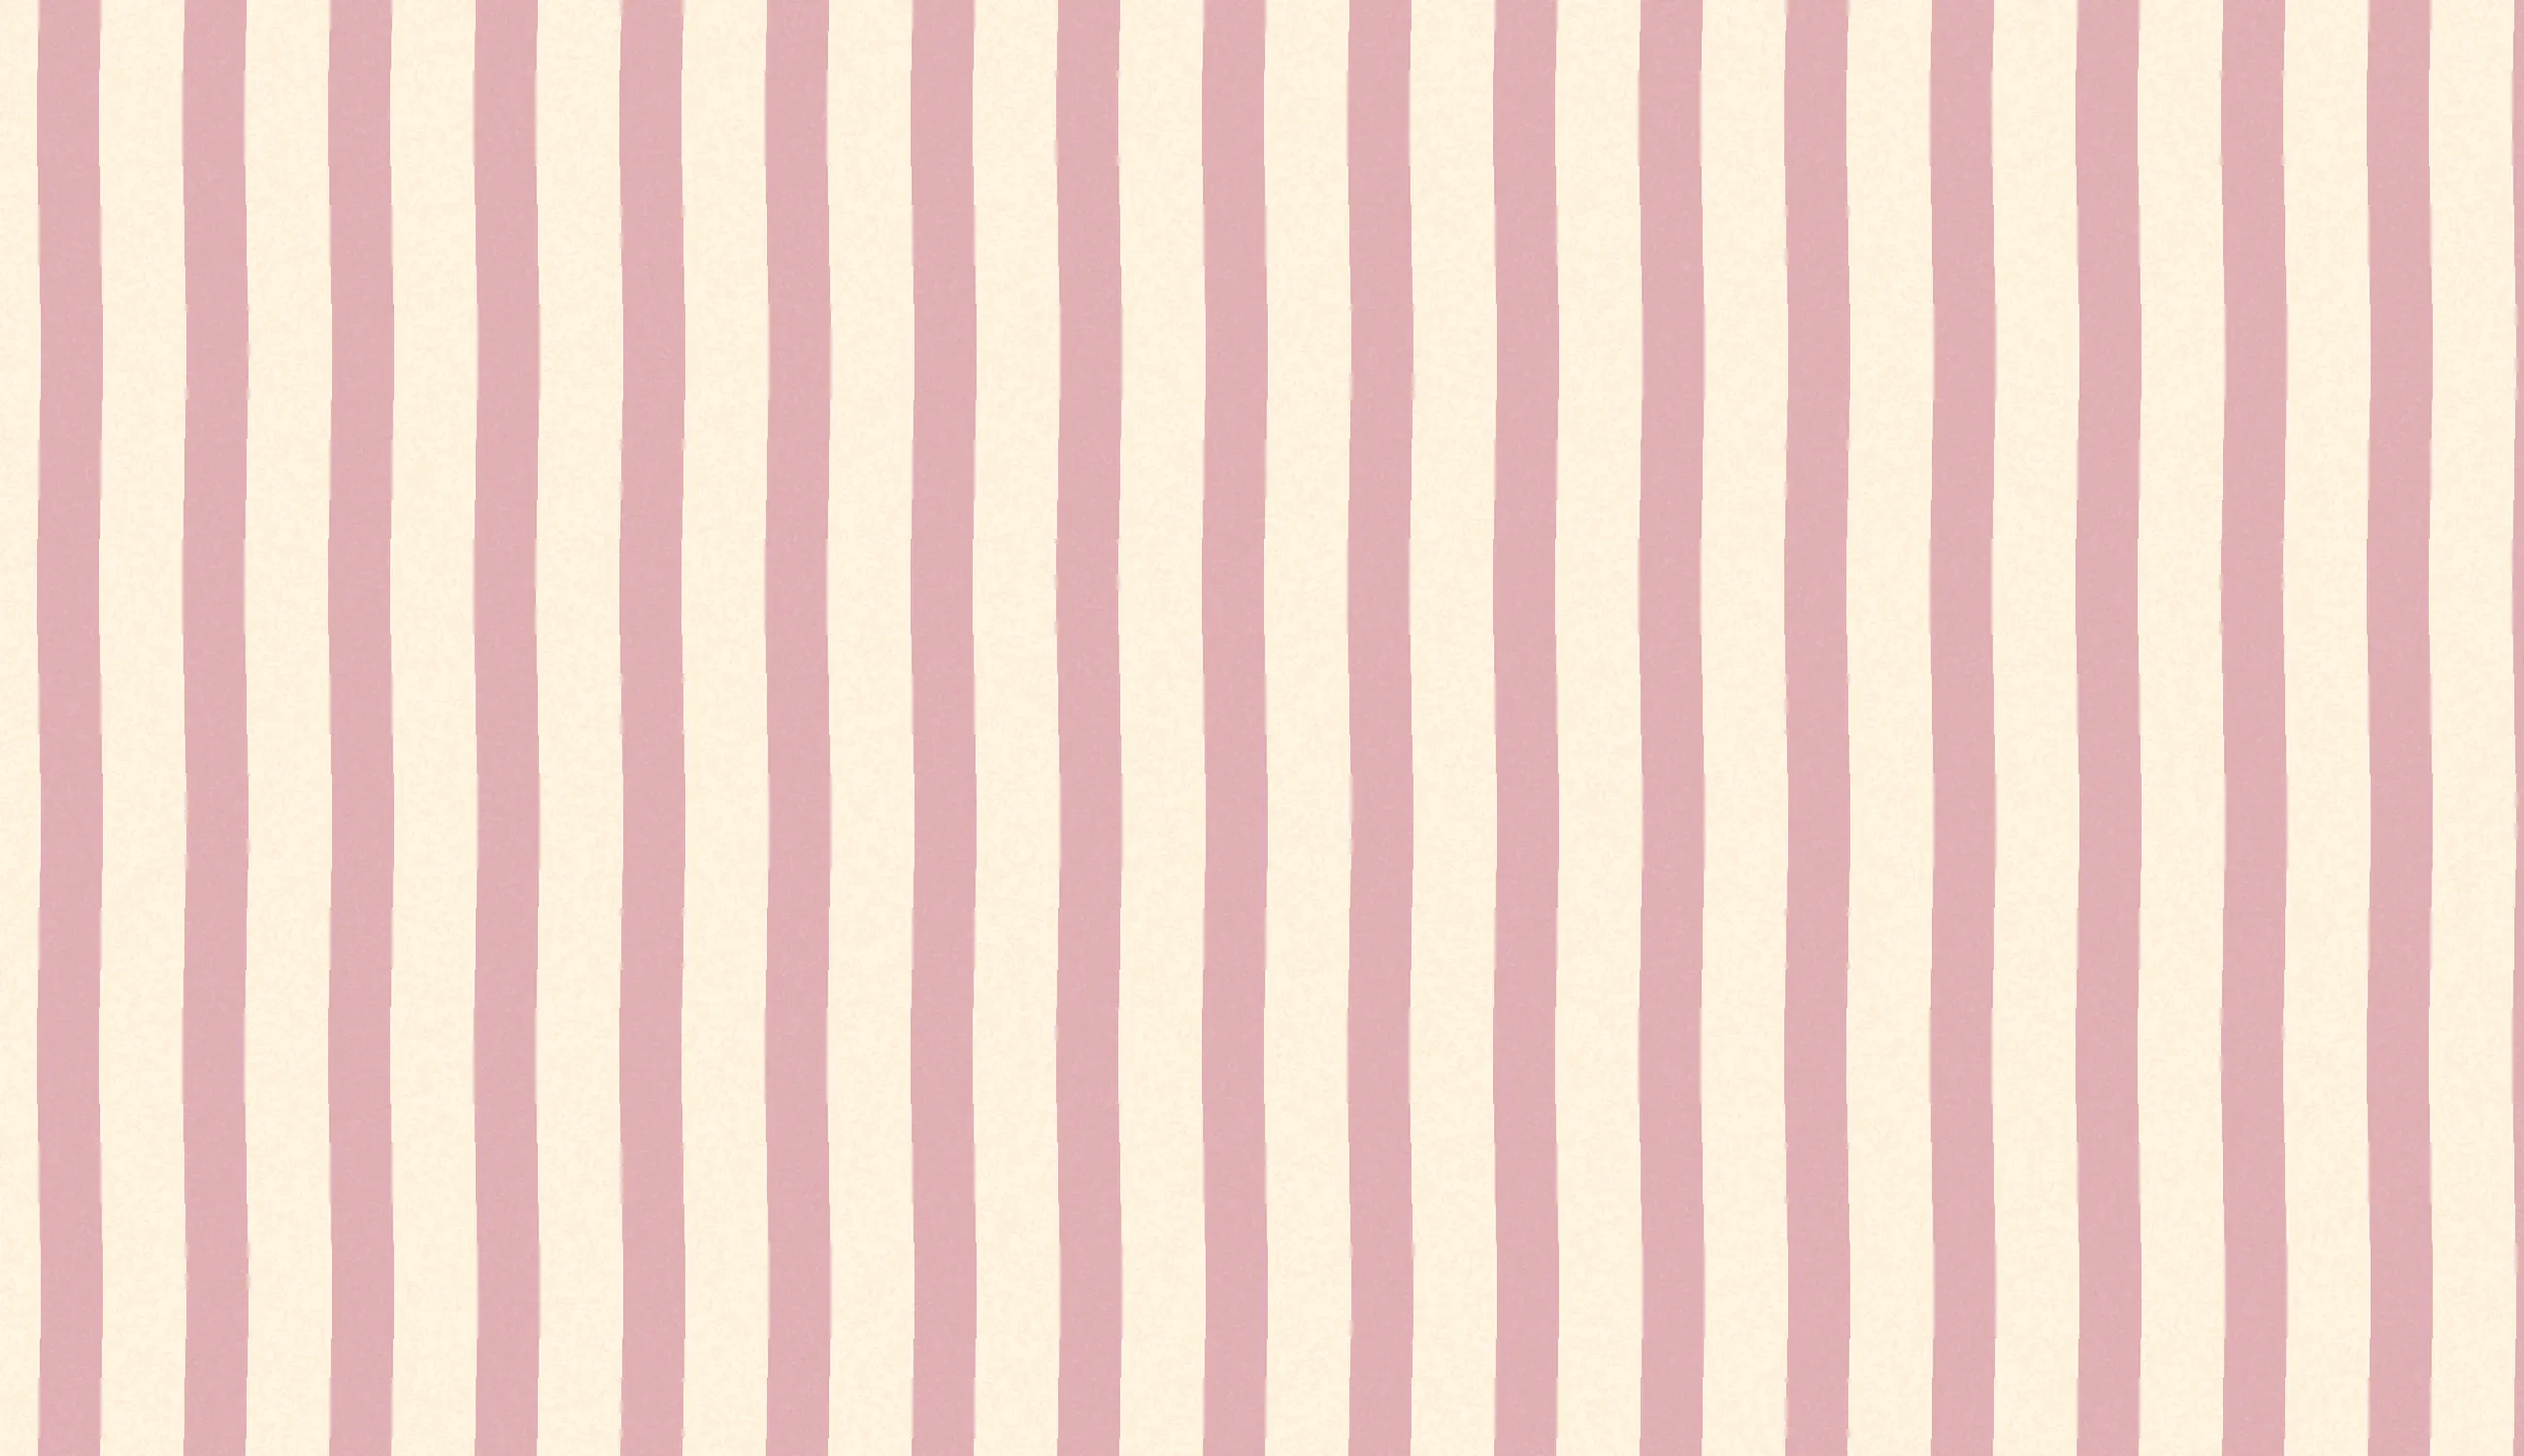
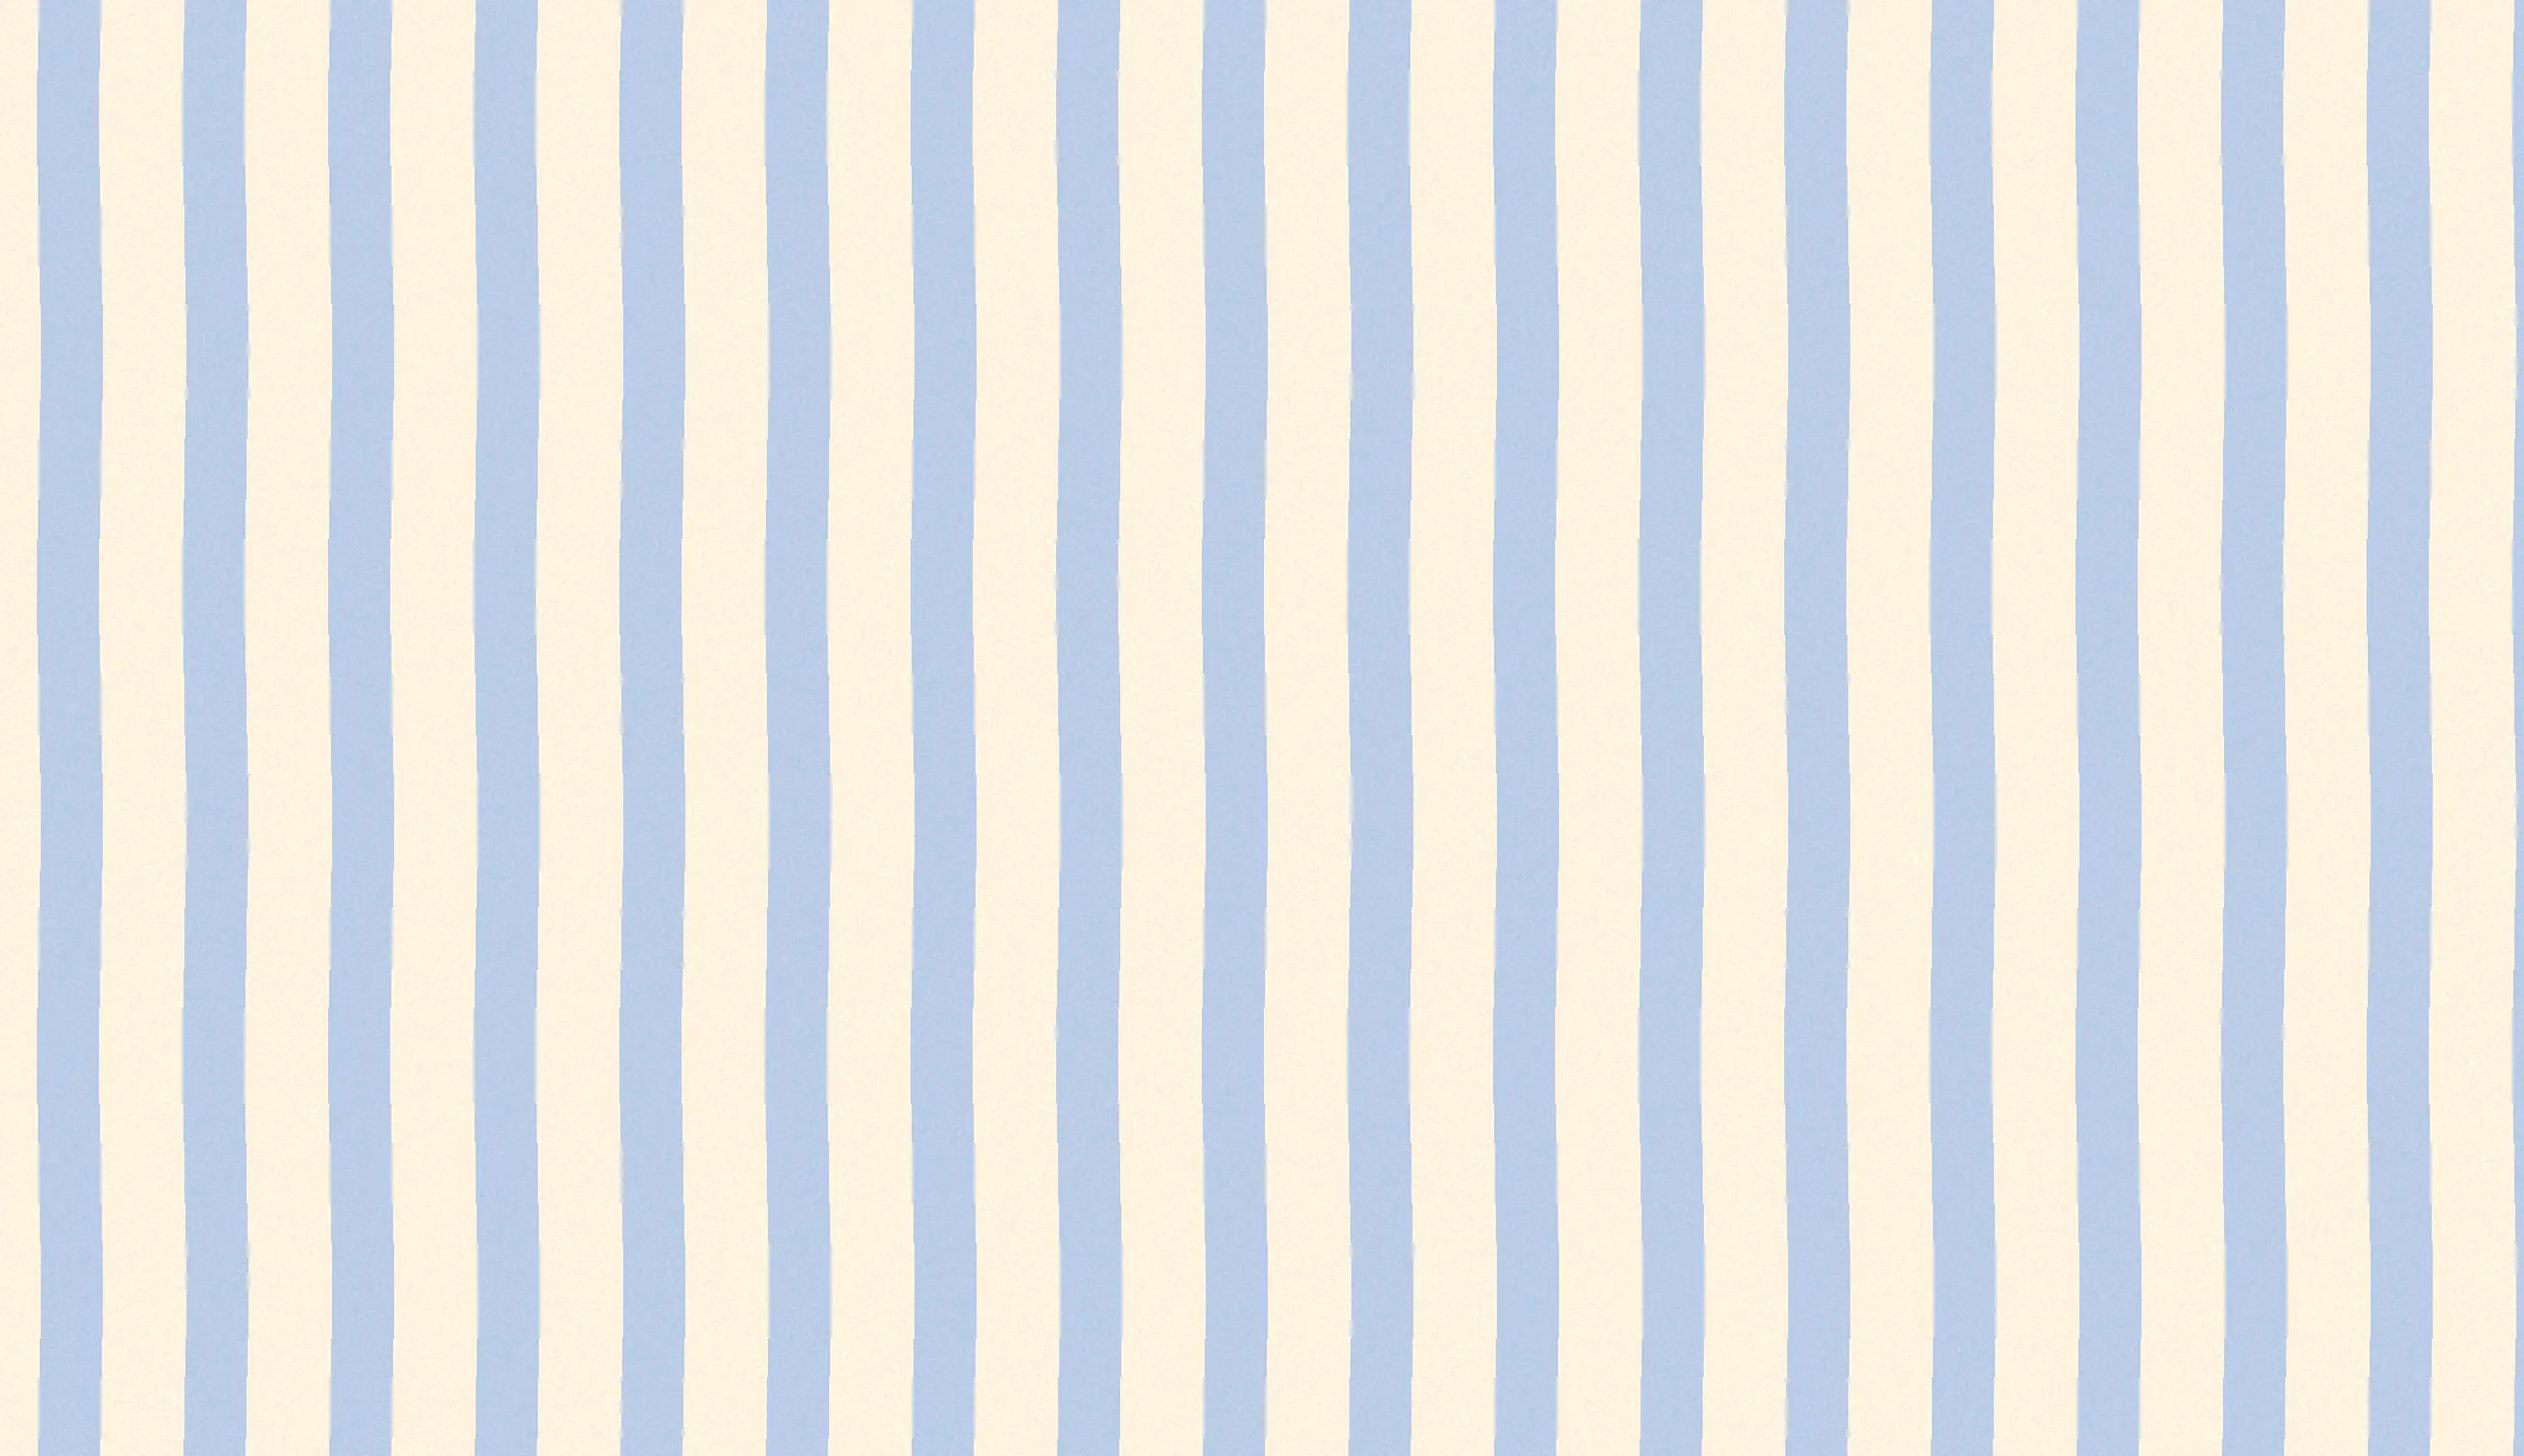
Our Story stripes pink; Instagram and transition stay blue
Claude-Session: https://claude.ai/code/session_011ZKxMUFJiw4xHGdEfVgDBx

diff --git a/src/components/OurStory.jsx b/src/components/OurStory.jsx
@@ -27,7 +27,7 @@ export default function OurStory({ instant = false }) {
 
   return (
     <section id="story" className="relative flex min-h-[100svh] scroll-mt-16 items-center justify-center overflow-hidden py-24 sm:py-28"
-      style={{ backgroundImage: `url(${asset('images/transitions/stripes.webp')})`, backgroundSize: 'cover', backgroundPosition: 'center' }}
+      style={{ backgroundImage: `url(${asset('images/transitions/stripes-pink.webp')})`, backgroundSize: 'cover', backgroundPosition: 'center' }}
     >
       <div className="mx-auto grid w-full max-w-[88rem] items-center justify-items-center gap-14 px-5 sm:px-10 lg:grid-cols-2 lg:gap-20">
         {/* Scrapbook collage */}
